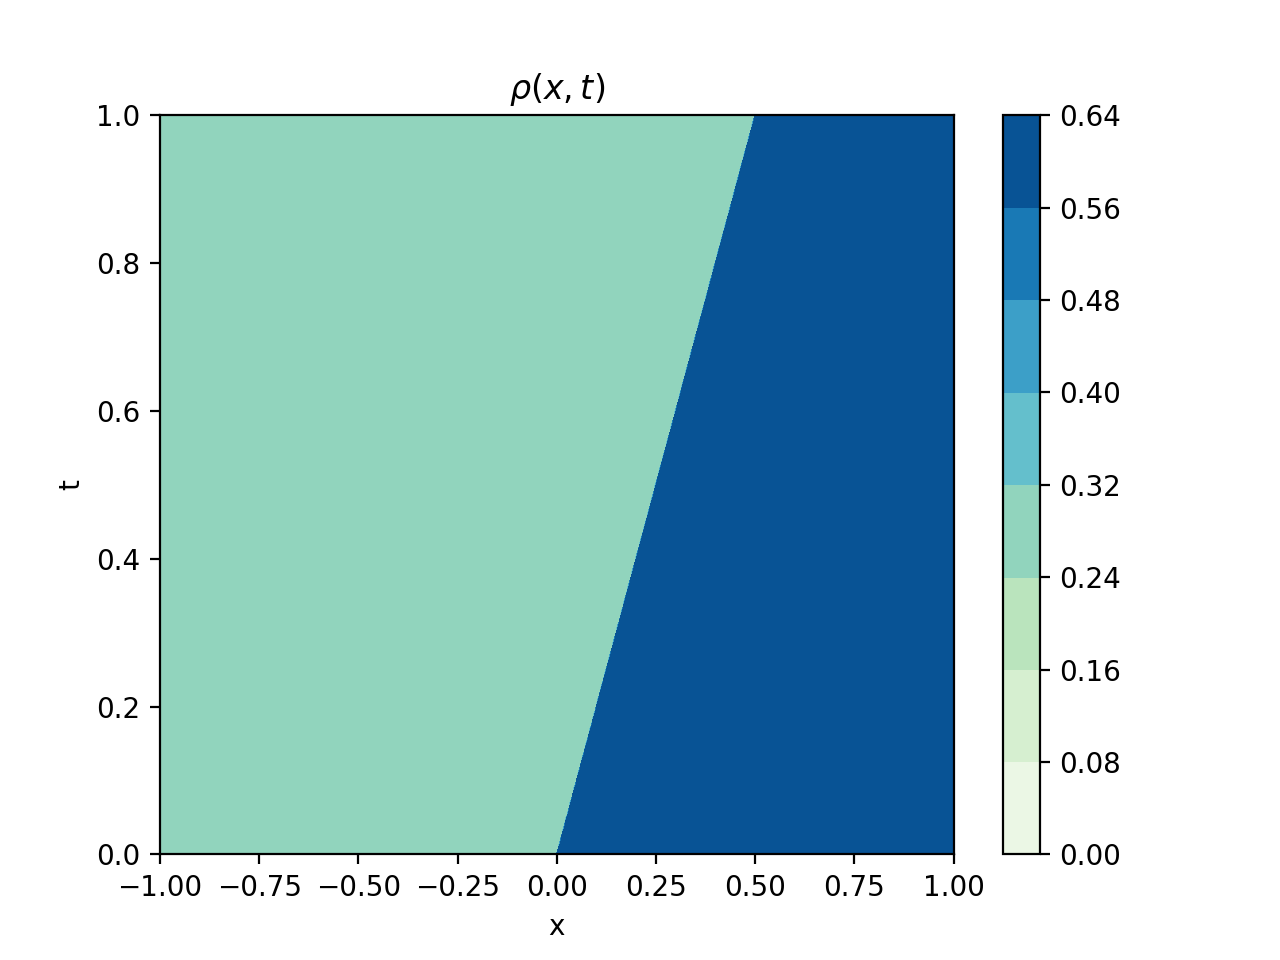
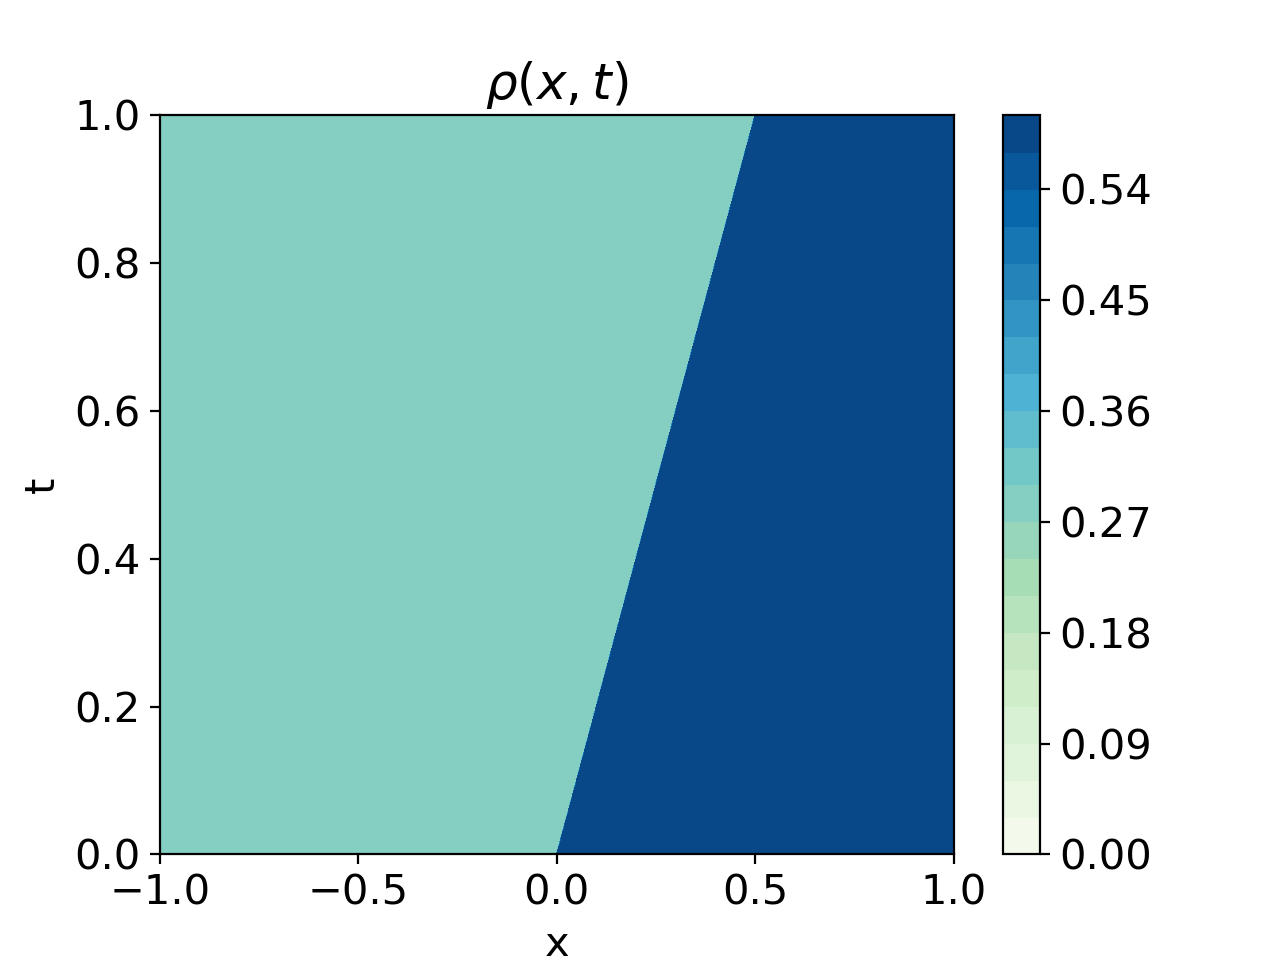
Oppdatert figurer og kode

diff --git a/NumeriskLøsning.py b/NumeriskLøsning.py
@@ -1,5 +1,7 @@
 import numpy as np
 from matplotlib import pyplot as plt
+plt.rcParams.update({
+    "font.size":15})
 
 ##
 ##  HYPERBOLIC TRAFFIC MODEL WITH
@@ -18,7 +20,7 @@ V = 5   # max speed
 Q = 0.5 # wide jam param.
 
 xs = np.linspace(-1,1,1000)
-ts = np.linspace(0,5, 500)
+ts = np.linspace(0,1, 1000)
 
 # Eigenvalues
 lambda1 = lambda r,q: (2/R - 1/r)*(Q-q) - Q/R
@@ -26,18 +28,19 @@ lambda2 = lambda r,q: q/r*(1-r/R)
 
 
 # Rarefaction
-#w_r = lambda r, q, xi: 0.5*(r*(Q-q*r*xi - 2*r*(2*Q+1/R)))/(R*(Q-q)+ (q*r - 2*Q*r - Q/2) - 2*r/R)
-#w_q = lambda r, q, xi: R/2*( xi + (Q-q)/r) - Q*(1+1/R)
-
-w_r = lambda r, q, xi: 0.5*(r*(Q-q*r*xi - 2*r*(2*Q+1/R)))/(R*(Q-q)+ (q*r - 2*Q*r - Q/2) - 2*r/R)
-w_q = lambda r, q, xi: R/2*( xi + (Q-q)/r) - Q*(1+1/R)
+#w_r = lambda r, q, xi: (R*(r*xi - q + 2*Q) -Q*r)/(2*(q- 2*Q + R/r*(Q-q)))
+w_r = lambda r, q, xi: ( R*(r*xi - q +Q) + Q*r)/(2*(Q-q))
+w_q = lambda r, q, xi: R/2*( (q-Q)/r - xi ) +Q/2
 
 # Initial values, u_l, u_r
-r_l = 0.6
-q_l = 0.6
+r_l = 0.3
+q_l = 0.7
 
-r_r = 0.2
-q_r = 0.7
+r_r = 0.8
+q_r = 0.4
+
+r_m = 0.92
+q_m = 1.11
 
 def plotInitialValues():
     sol_r = np.zeros(len(xs))
@@ -55,12 +58,15 @@ def plotInitialValues():
             sol_q[i] = q_r
             i += 1
 
-    plt.plot(sol_r, 'r', label=r"$\rho$")
-    plt.plot(sol_q, 'b', label=r"$q$")
+    plt.plot(xs, sol_r, 'r', label=r"$\rho$", color = "teal")
+    plt.plot(xs, sol_q, 'b', label=r"$q$", color = "goldenrod")
+    #plt.title("Inital values "+ r"$u(x,0): $" + r"$u_l = {},{}, u_r = {},{} $".format(r_l,q_l, r_r, q_r))
+    plt.title("Inital values " + r"$u(x,0): $")
     plt.xlabel("x")
     plt.ylabel("u")
     plt.legend()
     plt.show()
+
 
 
 def findMiddleState(plot):
@@ -71,11 +77,12 @@ def findMiddleState(plot):
     q2 = lambda r: (q_r / r_r) * ((R - r_r) / (R - r)) * r  # 2nd family wave
     # finding smallest point
     idx = np.argwhere(np.diff(np.sign(q1(r1s) - q2(r2s)))).flatten()
+    print(np.sign(q1(r1s) - q2(r2s)))
     r_m = r2s[idx]
     q_m = q1(r_m)
     if (plot):
-        plt.plot(r1s, q1(r1s), '-')
-        plt.plot(r2s, q2(r2s), '-')
+        plt.plot(r1s, q1(r1s), '-',  color = "teal")
+        plt.plot(r2s, q2(r2s), '-', color = "goldenrod")
         plt.plot(r_l, q_l, 'ro')
         plt.annotate(r"$u_l$", (r_l, q_l+.05))
         plt.plot(r_m, q_m, 'ro')
@@ -88,8 +95,19 @@ def findMiddleState(plot):
         plt.show()
     return r_m, q_m
 
+def findMiddleState2():
+    a = (q_l - Q)/r_l
+    print("a: ", a)
+    b = (R-r_r)*q_r/r_r
+    print("b: ", b)
+
+
+
+
+#findMiddleState2()
 # Middle state u_m:
-r_m, q_m = findMiddleState(plot=False)
+#r_m, q_m = findMiddleState(plot=False)
+
 
 def chooseEntropySol():
     if( q_l > Q):
@@ -112,11 +130,10 @@ def chooseEntropySol():
 ##
 ##
 
-def plotAnalyticalSolution():
+def plotAnalyticalSolution(t, plot):
     sol_r = np.zeros(len(xs))
     sol_q = np.zeros(len(xs))
 
-    t = 1.5
     i = 0
     for x in xs:
         if x < lambda1(r_l, q_l) * t:
@@ -135,16 +152,46 @@ def plotAnalyticalSolution():
             sol_r[i] = r_r
             sol_q[i] = q_r
             i += 1
+    if plot == True:
+        plt.plot(xs, sol_r,  label=r"$\rho$", color = "teal")
+        plt.plot(xs, sol_q,  label=r"$q$", color = "goldenrod")
+        plt.title(r"$ u(x, t = {} ) $".format(t))
+        plt.xlabel("x")
+        plt.ylabel("u")
+        plt.legend()
+        plt.show()
+    return sol_r, sol_q
 
-    plt.plot(sol_r, 'r', label=r"$\rho$")
-    #plt.plot(sol_q, 'b', label=r"$q$")
+def plot_xtSol():
+    sol_xtRho = np.zeros((len(ts), len(xs)))
+    sol_xtQ = np.zeros((len(ts), len(xs)))
+    j = 0
+    X, T = np.meshgrid(xs, ts)
+
+    for t in ts:
+        sol_xtRho[j], sol_xtQ[j] = plotAnalyticalSolution(t, False)
+        j += 1
+
+    plt.contourf(X, T, sol_xtRho, cmap =  "GnBu", levels=20)
+    plt.title(r"$ \rho(x,t) $")
+    plt.colorbar()
     plt.xlabel("x")
-    plt.ylabel("u")
-    plt.legend()
+    plt.ylabel("t")
+    plt.show()
+
+    plt.contourf(X, T, sol_xtQ, cmap = "YlOrBr", levels=20 )
+    plt.title(r"$ q(x,t) $")
+    plt.colorbar()
+    plt.xlabel("x")
+    plt.ylabel("t")
     plt.show()
 
 print("r_l =", r_l)
-print("r_m =", r_m[0])
+#print("r_m =", r_m[0])
 print("r_r =", r_r)
 print(chooseEntropySol())
-plotAnalyticalSolution()
+
+
+plotInitialValues()
+plotAnalyticalSolution(0.7, True)
+plot_xtSol()

diff --git a/FreePhase.py b/FreePhase.py
@@ -1,5 +1,7 @@
 import numpy as np
 from matplotlib import pyplot as plt
+plt.rcParams.update({
+    "font.size":15})
 
 # FREE PHASE
 # r_t + (rv)_x = 0
@@ -11,8 +13,8 @@ V = 5   # max speed
 vf = lambda rho: (1-rho/R)*V
 
 # initial condition
-rho_l = 0.2
-rho_r = 0.9
+rho_l = 0.3
+rho_r = 0.6
 
 # Shock speed
 s = (rho_r*vf(rho_r) - rho_l*vf(rho_l))/(rho_r - rho_l)
@@ -37,7 +39,7 @@ def plotInitialValues():
             i += 1
 
     plt.plot(xs, sol_rho, 'r', label=r"$\rho$", color="teal")
-    plt.title("Inital values " + r"$\rho_l = {}, \rho_r = {} $".format(rho_l, rho_r))
+    plt.title("Inital values "+ r"$\rho(x,0): $" + r"$\rho_l = {}, \rho_r = {} $".format(rho_l, rho_r))
     plt.xlabel("x")
     plt.ylabel("u")
     plt.legend()
@@ -84,31 +86,15 @@ def plot_xtSol():
         sol_xt[j] = plotAnalyticalSolution(t, False)
         j += 1
 
-    #plt.imshow(sol_xt, extent=[-1, 1, 0, 1])
-    plt.contourf(X, T, sol_xt, cmap= "GnBu")
+    plt.contourf(X, T, sol_xt, cmap= "GnBu", levels=20 )
     plt.title(r"$ \rho(x,t) $")
     plt.colorbar()
     plt.xlabel("x")
     plt.ylabel("t")
-    #plt.legend()
     plt.show()
 
 
-#plotInitialValues()
-#plotAnalyticalSolution(0.5, True)
-#plot_xtSol()
+plotInitialValues()
+plotAnalyticalSolution(0.5, True)
+plot_xtSol()
 
-
-def plotRarefactionWave():
-
-    plotInitialValues()
-    plotAnalyticalSolution(0.2, True)
-    plot_xtSol()
-
-def plotShockWave():
-
-    plotInitialValues()
-    plotAnalyticalSolution(0.5, True)
-    plot_xtSol()
-
-plotShockWave()
